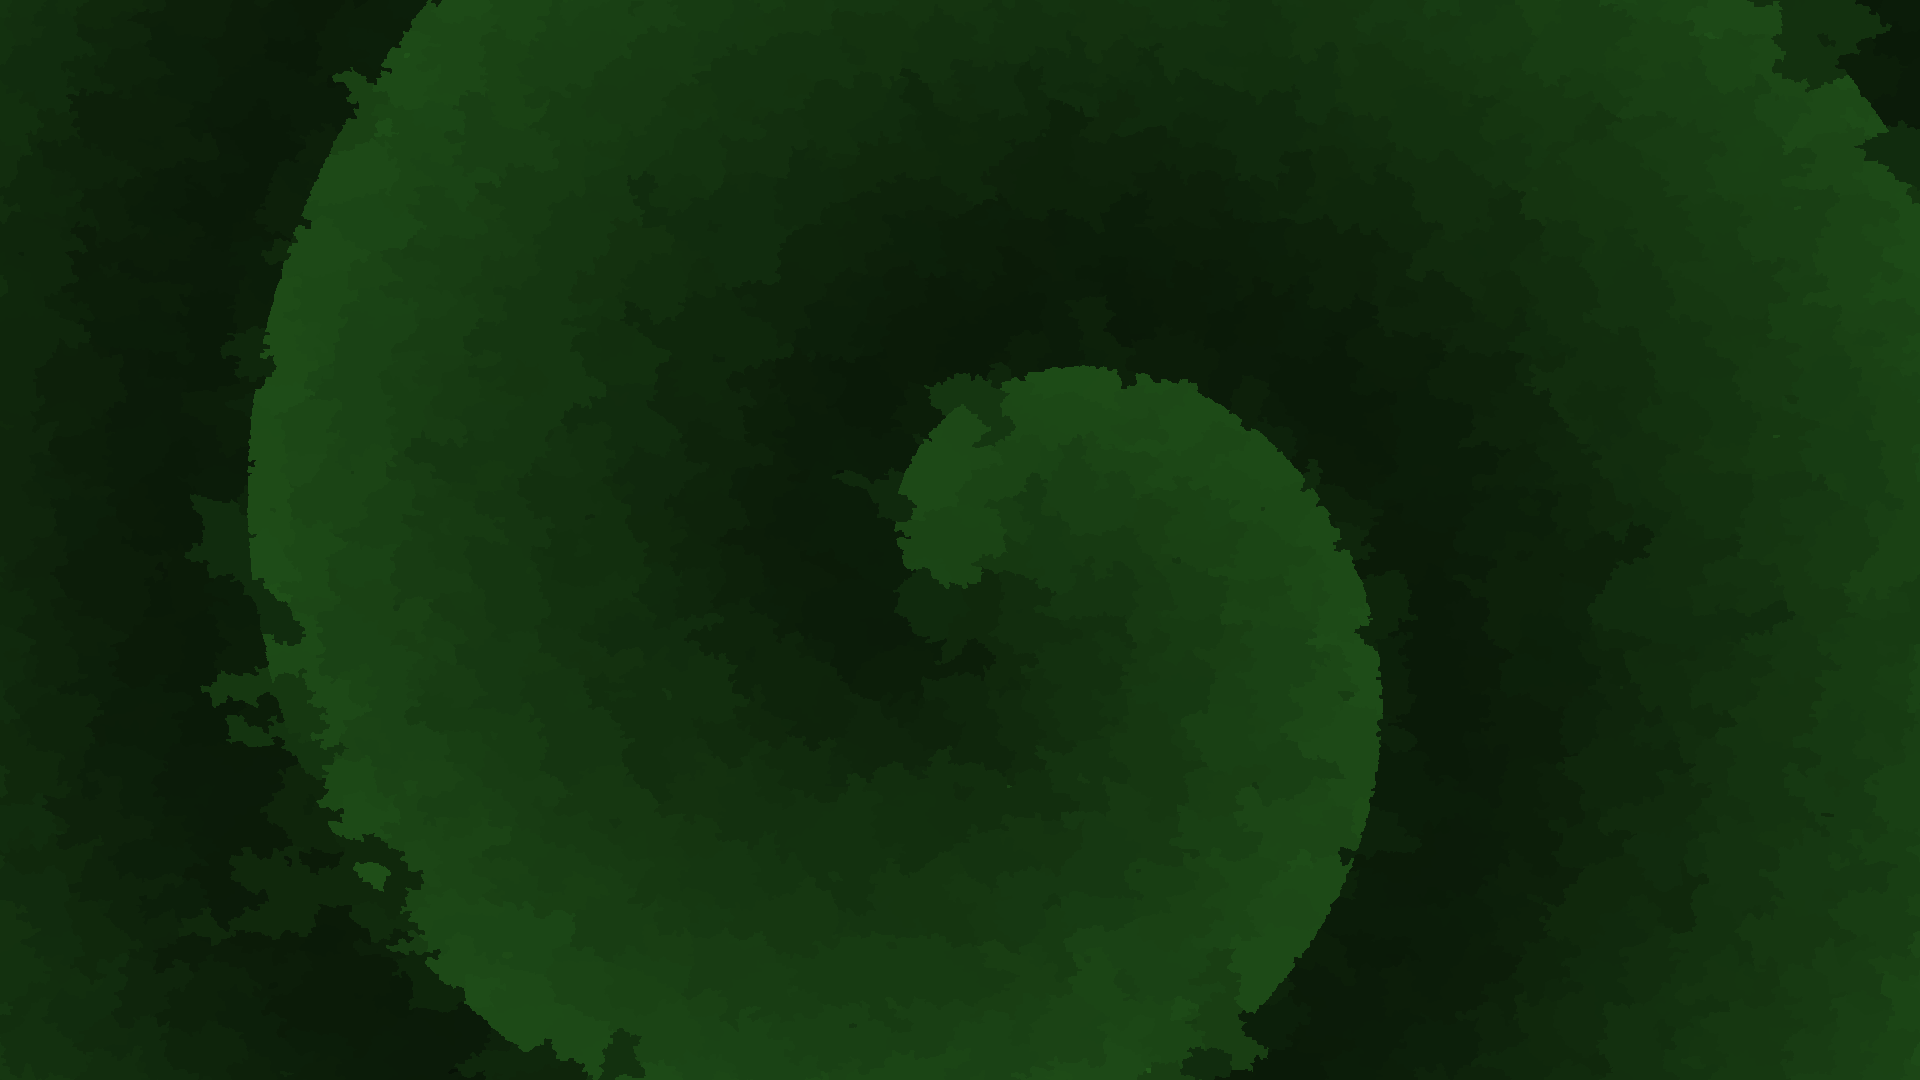
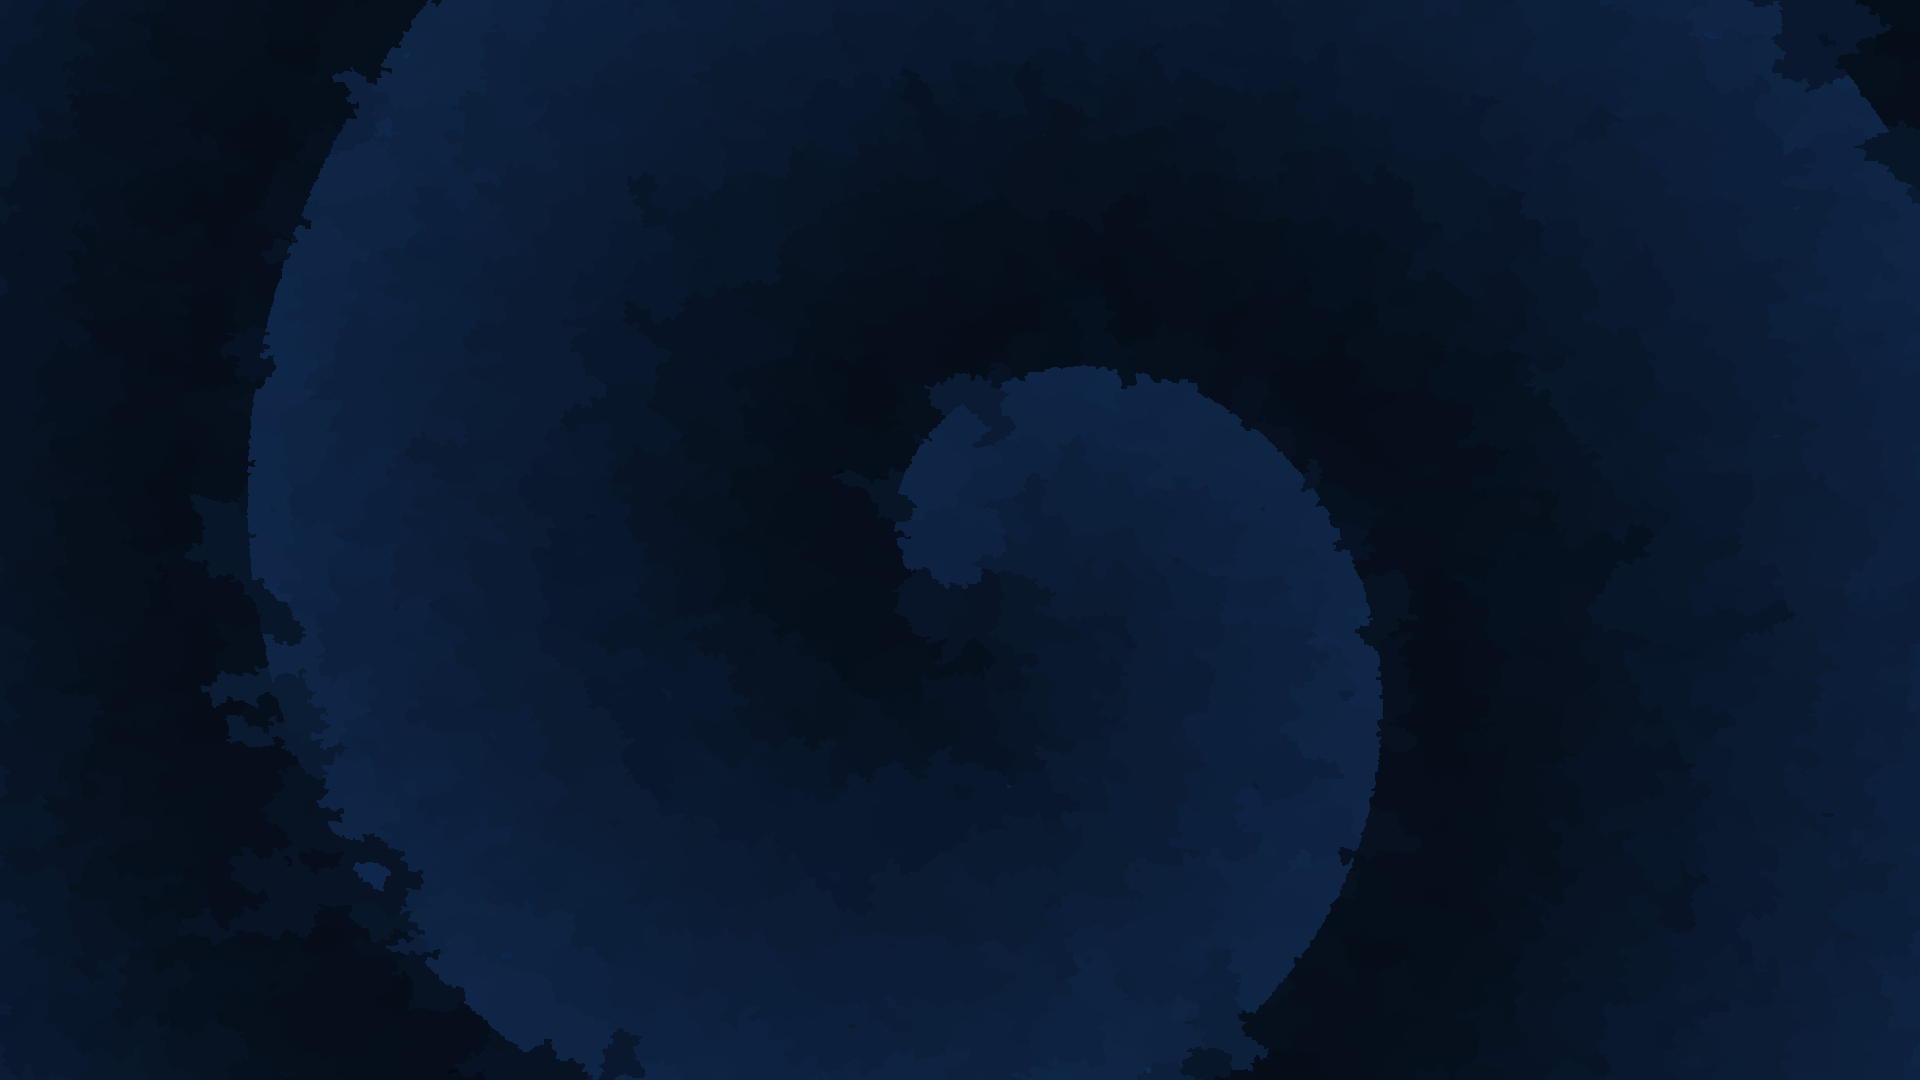
blue

diff --git a/assets/style/main.css b/assets/style/main.css
@@ -43,7 +43,7 @@ body #wrap header .box.nav #navLeft #logo {
   width: 100%;
 }
 body #wrap header .box.nav #navLeft #logo #logoImage {
-  background-image: url("../images/icons/fp_green_512x512.png");
+  background-image: url("../images/icons/favicon-310.png");
   background-size: 100% 100%;
   width: 70px;
   margin: auto;
@@ -67,7 +67,7 @@ body #wrap header .box.nav #navRight .link a {
   text-decoration: underline;
 }
 body #wrap header .box.nav #navRight .link a:hover {
-  color: #1bc600;
+  color: #006dc6;
 }
 body #wrap main .box.box-iframe {
   height: 60vh;
@@ -137,15 +137,15 @@ body #wrap main .box .category .grid .project .thumbnail, body #wrap main .box .
 body #wrap main .box .category .grid .project .thumbnail img, body #wrap main .box .category .project-list .project .thumbnail img {
   display: block;
   cursor: pointer;
-  background: #ebebeb;
+  background: black;
   height: 100px;
   padding: 10px;
 }
 body #wrap main .box .category .grid .project .thumbnail-hover-border, body #wrap main .box .category .project-list .project .thumbnail-hover-border {
-  border: 3px ridge #1bc600;
+  border: 3px ridge #006dc6;
 }
 body #wrap main .box .category .grid .project .thumbnail-hover-text, body #wrap main .box .category .project-list .project .thumbnail-hover-text {
-  color: #1bc600;
+  color: #006dc6;
 }
 body #wrap main .box .category .grid .project a, body #wrap main .box .category .project-list .project a {
   cursor: default;

diff --git a/header.php b/header.php
@@ -1,14 +1,24 @@
-<link rel="apple-touch-icon" sizes="180x180" href="/assets/images/icons/apple-touch-icon.png">
-    <link rel="icon" type="image/png" sizes="32x32" href="/assets/images/icons/favicon-32x32.png">
-    <link rel="icon" type="image/png" sizes="192x192" href="/assets/images/icons/android-chrome-192x192.png">
-    <link rel="icon" type="image/png" sizes="16x16" href="/assets/images/icons/favicon-16x16.png">
-    <link rel="manifest" href="/site.webmanifest">
-    <link rel="mask-icon" href="/assets/images/icons/safari-pinned-tab.svg" color="#1bc600">
-    <link rel="shortcut icon" href="/assets/images/icons/favicon.ico">
+<link rel="shortcut icon" href="/assets/images/icons/favicon.ico">
+	<link rel="icon" sizes="16x16 32x32 64x64" href="/assets/images/icons/favicon.ico">
+	<link rel="icon" type="image/png" sizes="196x196" href="/assets/images/icons/favicon-192.png">
+	<link rel="icon" type="image/png" sizes="160x160" href="/assets/images/icons/favicon-160.png">
+	<link rel="icon" type="image/png" sizes="96x96" href="/assets/images/icons/favicon-96.png">
+	<link rel="icon" type="image/png" sizes="64x64" href="/assets/images/icons/favicon-64.png">
+	<link rel="icon" type="image/png" sizes="32x32" href="/assets/images/icons/favicon-32.png">
+	<link rel="icon" type="image/png" sizes="16x16" href="/assets/images/icons/favicon-16.png">
+	<link rel="apple-touch-icon" href="/assets/images/icons/favicon-57.png">
+	<link rel="apple-touch-icon" sizes="114x114" href="/assets/images/icons/favicon-114.png">
+	<link rel="apple-touch-icon" sizes="72x72" href="/assets/images/icons/favicon-72.png">
+	<link rel="apple-touch-icon" sizes="144x144" href="/assets/images/icons/favicon-144.png">
+	<link rel="apple-touch-icon" sizes="60x60" href="/assets/images/icons/favicon-60.png">
+	<link rel="apple-touch-icon" sizes="120x120" href="/assets/images/icons/favicon-120.png">
+	<link rel="apple-touch-icon" sizes="76x76" href="/assets/images/icons/favicon-76.png">
+	<link rel="apple-touch-icon" sizes="152x152" href="/assets/images/icons/favicon-152.png">
+	<link rel="apple-touch-icon" sizes="180x180" href="/assets/images/icons/favicon-180.png">
+	<meta name="msapplication-TileColor" content="#FFFFFF">
+	<meta name="msapplication-TileImage" content="/favicon-144.png">
+	<meta name="msapplication-config" content="/browserconfig.xml">
     <meta name="apple-mobile-web-app-title" content="frankpettersson.se">
-    <meta name="application-name" content="frankpettersson.se">
-    <meta name="msapplication-TileColor" content="#00a300">
-    <meta name="msapplication-config" content="/browserconfig.xml">
     <meta name="theme-color" content="#ffffff">
     <meta charset="UTF-8">
     <meta name="viewport" content="width=device-width, initial-scale=1.0">
